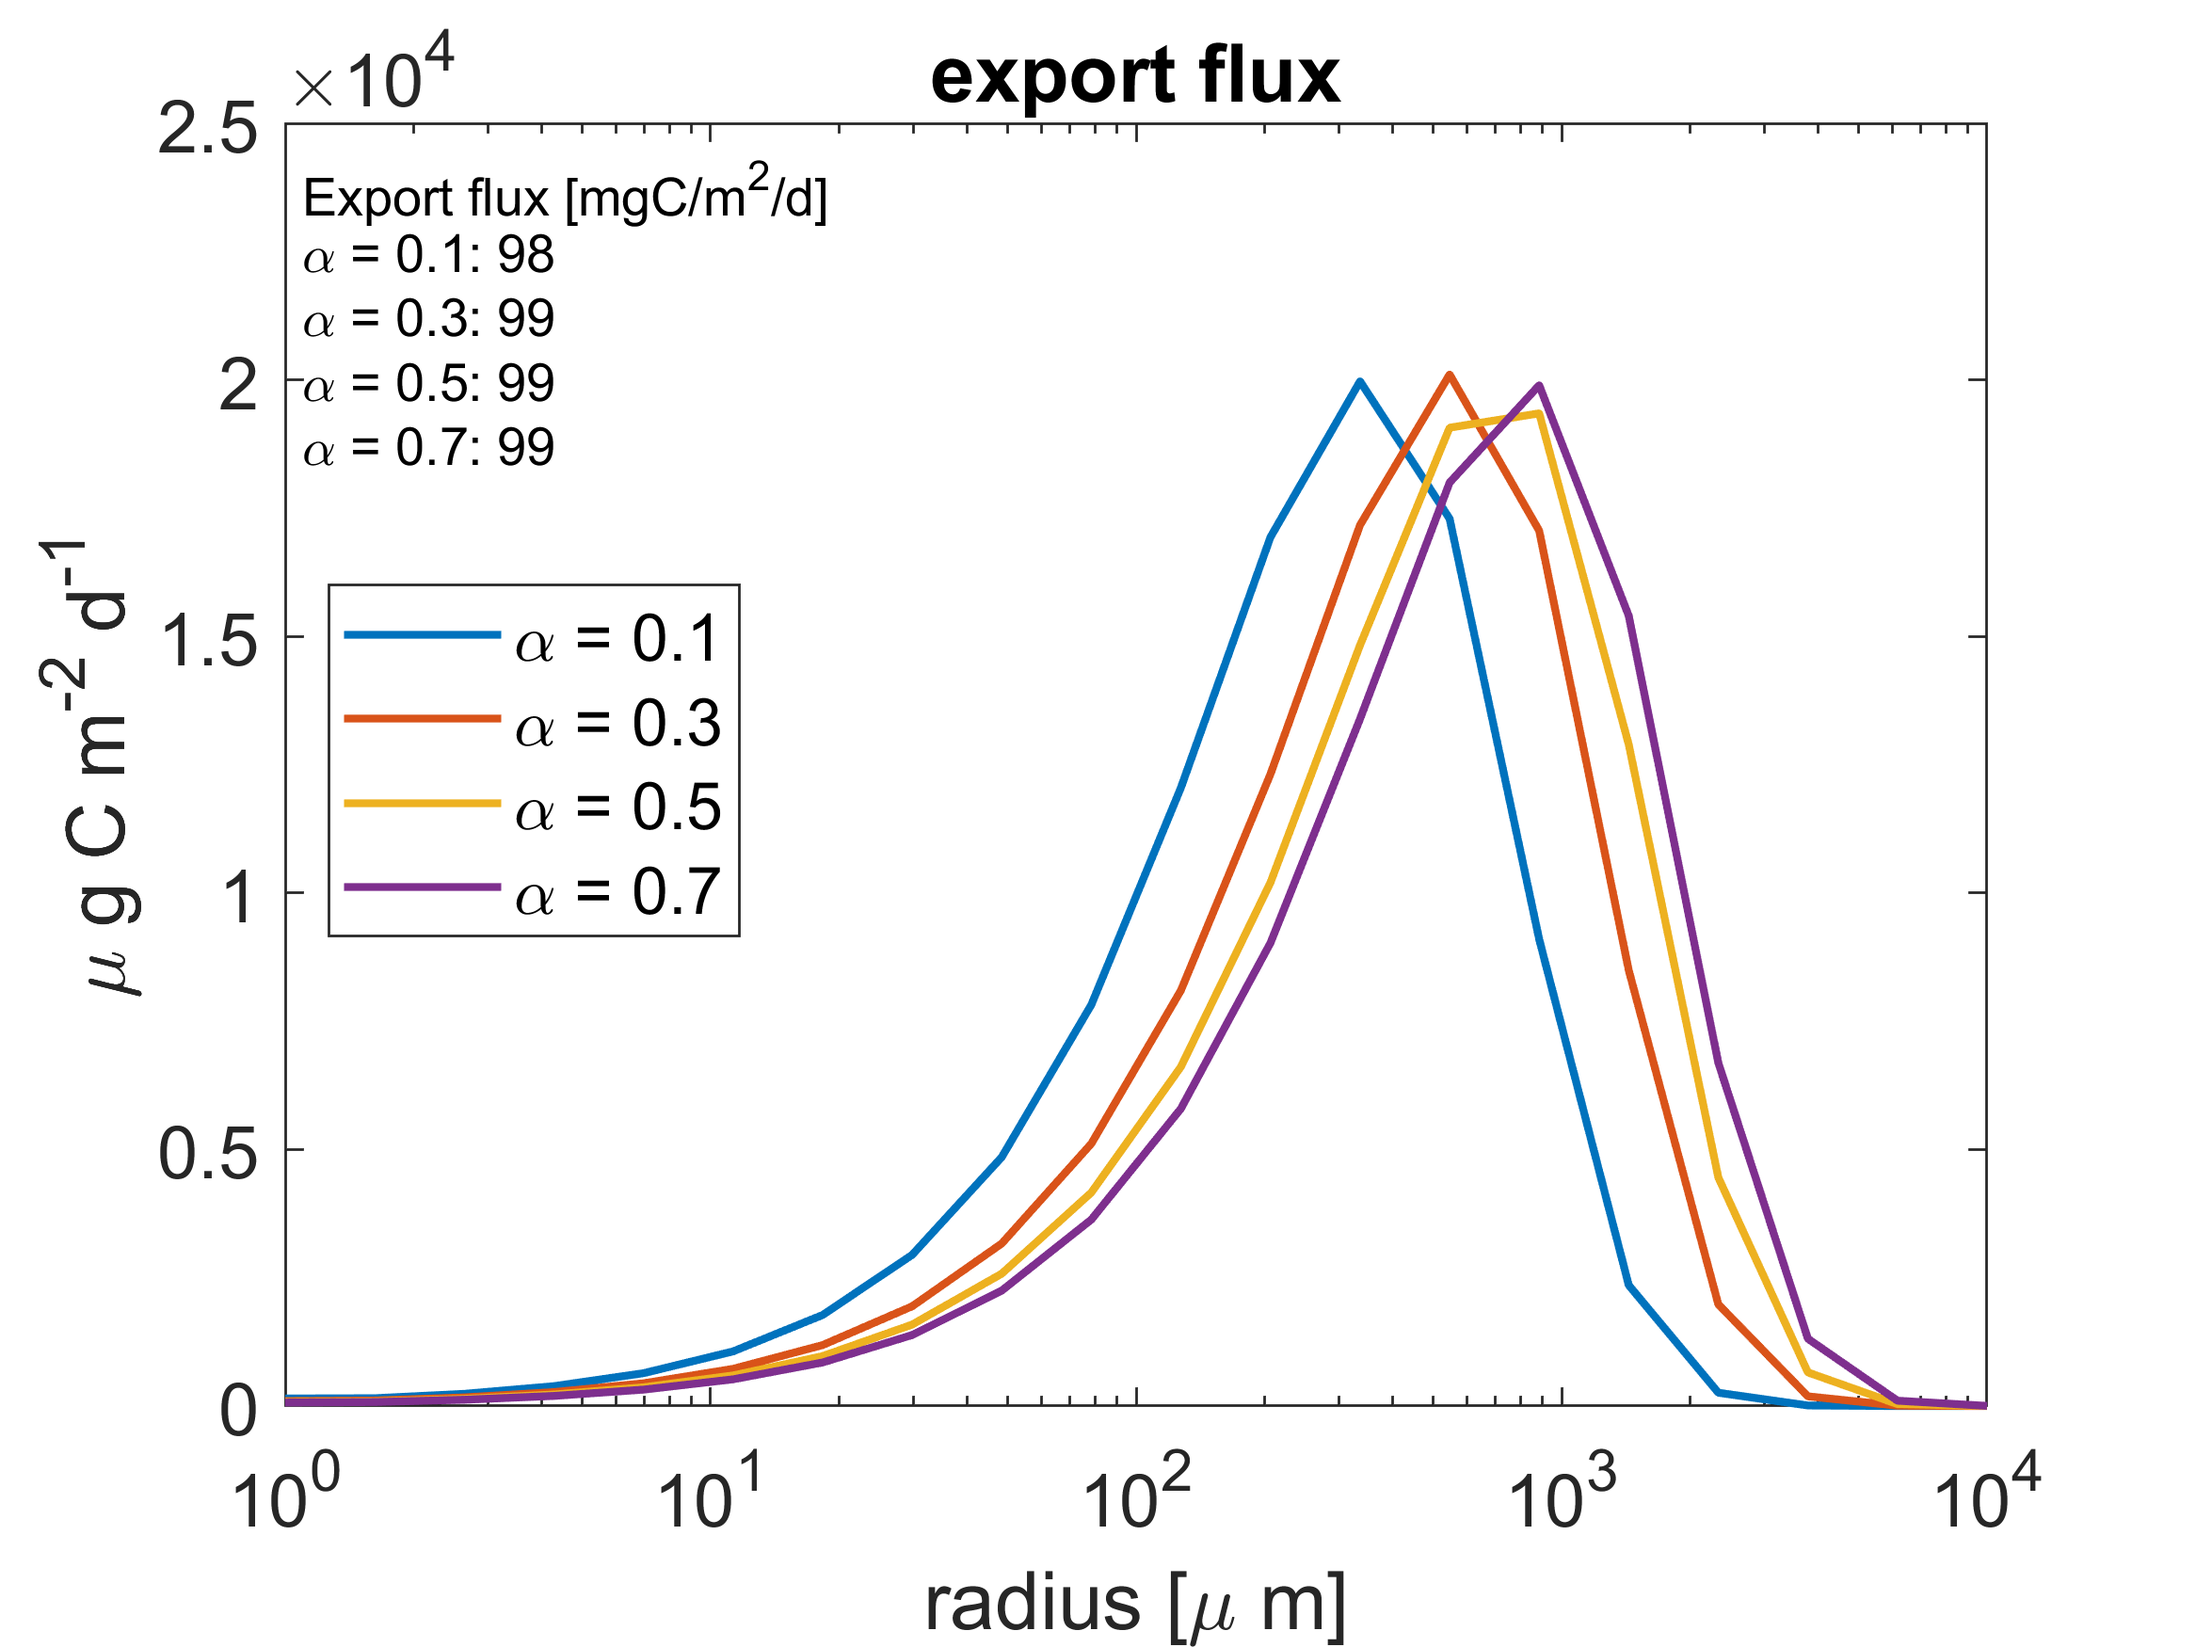
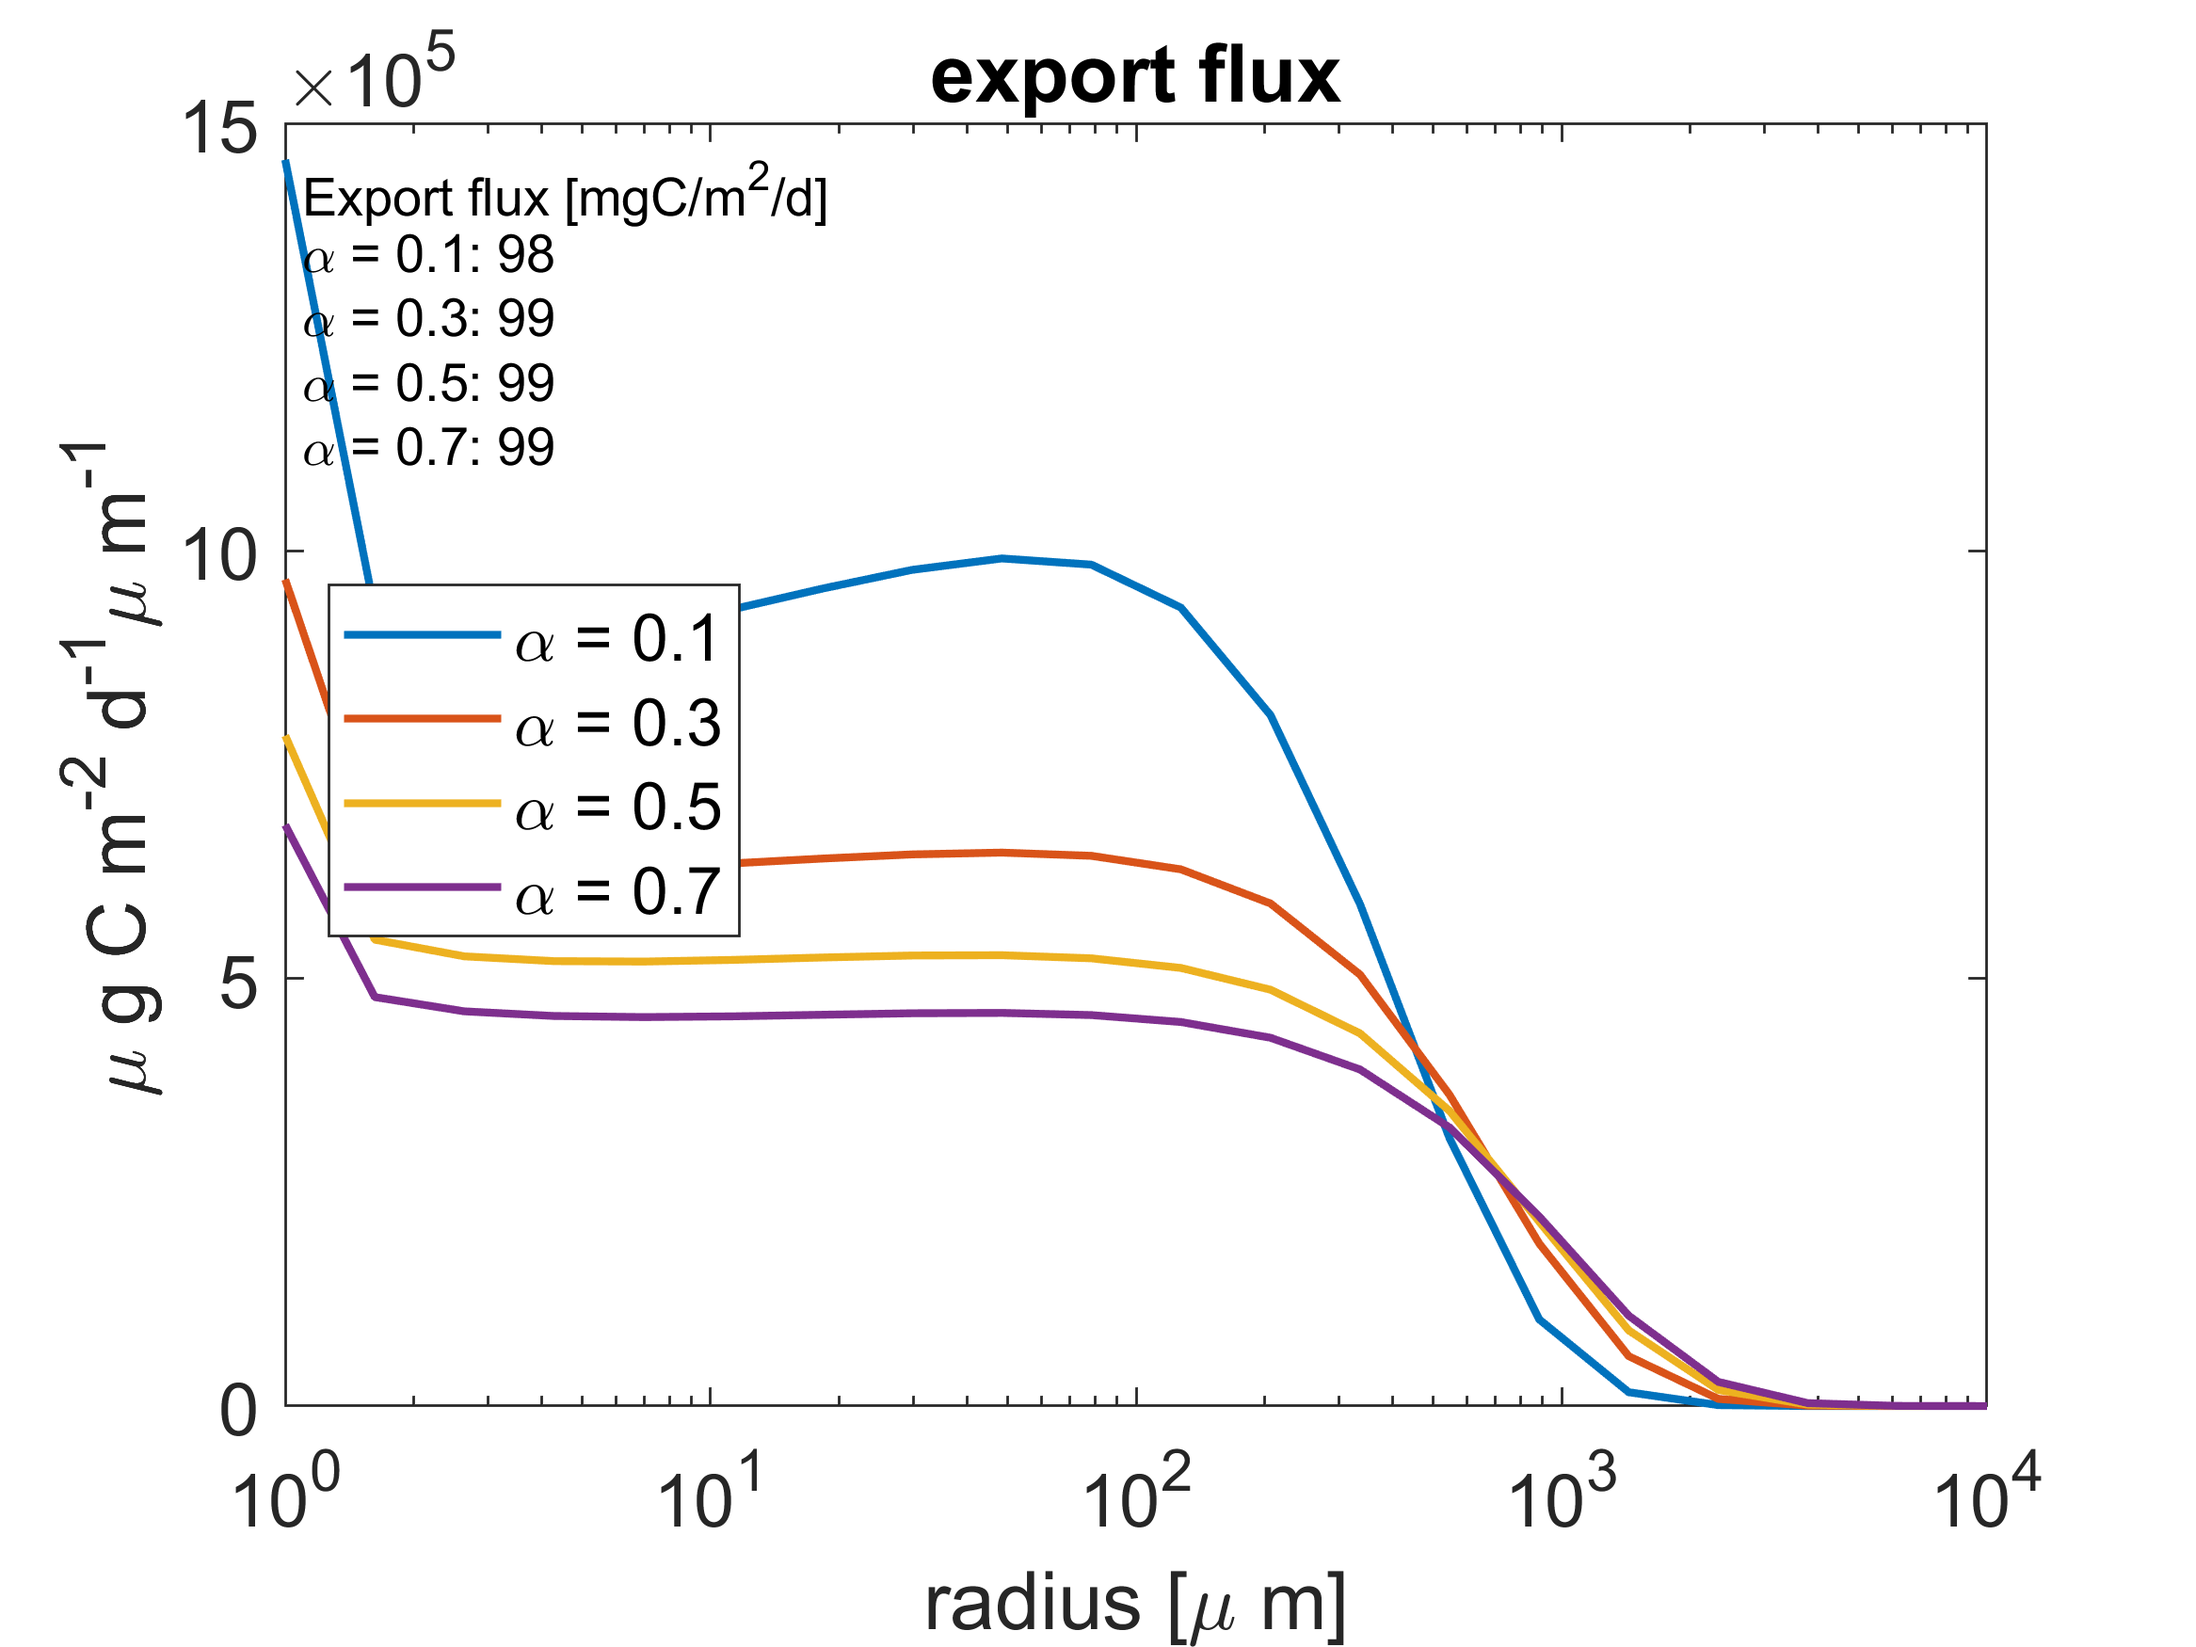
Updated export flux in sensitivity analysis

diff --git a/sensitivityanalysis/sensitivityPlots.m b/sensitivityanalysis/sensitivityPlots.m
@@ -16,6 +16,8 @@ load('alpha_05.mat')
 alpha05 = SA;
 load('alpha_07.mat')
 alpha07 = SA;
+load('a_16.mat')
+a16 = SA;
 load('a_17.mat')
 a17 = SA;
 load('a_18.mat')
@@ -36,65 +38,75 @@ load('x5.mat');
 
 SAstring = [{'epsilon4'},{'epsilon5'},{'epsilon7'},{'base'},{'alpha03'},{'alpha05'},{'alpha07'},{'a18'},{'a19'},{'a20'},{'a22'},{'a23'}];
 %% Export flux
+nR = length(x4);
+load('DELTA5.mat')
+DELTA5 = DELTA;
+load('DELTA4.mat')
+DELTA4 = DELTA;
 
 
     
 exportDT = epsilon4.wWhites.*epsilon4.M/H;
-exportDT_x(1,:) = sum(exportDT,1);
+exportDT_x(1,:) = sum(exportDT,1)./DELTA;
 exportFlux(1) = sum(exportDT,'all','omitnan')*1E-3 ;%[mgC/m2/d]
 
 exportDT = epsilon5.wWhites.*epsilon5.M/H;
-exportDT_x(2,:) = sum(exportDT,1);
+exportDT_x(2,:) = sum(exportDT,1)./DELTA;
 exportFlux(2) = sum(exportDT,'all','omitnan')*1E-3; %[mgC/m2/d]
 
 exportDT = epsilon7.wWhites.*epsilon7.M/H;
-exportDT_x(3,:) = sum(exportDT,1);
+exportDT_x(3,:) = sum(exportDT,1)./DELTA;
 exportFlux(3) = sum(exportDT,'all','omitnan')*1E-3 ;%[mgC/m2/d]
 
 exportDT = base.wWhites.*base.M/H;
-exportDT_x(4,:) = sum(exportDT,1);
+exportDT_x(4,:) = sum(exportDT,1)./DELTA;
 exportFlux(4) = sum(exportDT,'all','omitnan')*1E-3 ;%[mgC/m2/d]
 
 exportDT = alpha03.wWhites.*alpha03.M/H;
-exportDT_x(5,:) = sum(exportDT,1);
+exportDT_x(5,:) = sum(exportDT,1)./DELTA;
 exportFlux(5) = sum(exportDT,'all','omitnan')*1E-3 ;%[mgC/m2/d]
 
 exportDT = alpha05.wWhites.*alpha05.M/H;
-exportDT_x(6,:) = sum(exportDT,1);
+exportDT_x(6,:) = sum(exportDT,1)./DELTA;
 exportFlux(6) = sum(exportDT,'all','omitnan')*1E-3 ;%[mgC/m2/d]
 
 
 exportDT = alpha07.wWhites.*alpha07.M/H;
-exportDT_x(7,:) = sum(exportDT,1);
+exportDT_x(7,:) = sum(exportDT,1)./DELTA;
 exportFlux(7) = sum(exportDT,'all','omitnan')*1E-3 ;%[mgC/m2/d]
 
-exportDT = a17.wWhites.*a17.M/H;
-exportDT_x(8,:) = sum(exportDT,1);
+exportDT = a16.wWhites.*a16.M/H;
+exportDT_x(8,:) = sum(exportDT,1)./DELTA5;
 exportFlux(8) = sum(exportDT,'all','omitnan')*1E-3 ;%[mgC/m2/d]
 
-exportDT = a18.wWhites.*a18.M/H;
-exportDT_x(9,:) = sum(exportDT,1);
+
+exportDT = a17.wWhites.*a17.M/H;
+exportDT_x(9,:) = sum(exportDT,1)./DELTA5;
 exportFlux(9) = sum(exportDT,'all','omitnan')*1E-3 ;%[mgC/m2/d]
 
-exportDT = a19.wWhites.*a19.M/H;
-exportDT_x(10,:) = sum(exportDT,1);
+exportDT = a18.wWhites.*a18.M/H;
+exportDT_x(10,:) = sum(exportDT,1)./DELTA5;
 exportFlux(10) = sum(exportDT,'all','omitnan')*1E-3 ;%[mgC/m2/d]
 
-exportDT = a20.wWhites.*a20.M/H;
-exportDT_x(11,:) = sum(exportDT,1);
+exportDT = a19.wWhites.*a19.M/H;
+exportDT_x(11,:) = sum(exportDT,1)./DELTA;
 exportFlux(11) = sum(exportDT,'all','omitnan')*1E-3 ;%[mgC/m2/d]
 
-exportDT = a21.wWhites.*a21.M/H;
-exportDT_x(12,:) = sum(exportDT,1);
+exportDT = a20.wWhites.*a20.M/H;
+exportDT_x(12,:) = sum(exportDT,1)./DELTA;
 exportFlux(12) = sum(exportDT,'all','omitnan')*1E-3 ;%[mgC/m2/d]
 
-exportDT = a22.wWhites.*a22.M/H;
-exportDT_x(13,:) = sum(exportDT,1);
+exportDT = a21.wWhites.*a21.M/H;
+exportDT_x(13,:) = sum(exportDT,1)./DELTA;
 exportFlux(13) = sum(exportDT,'all','omitnan')*1E-3 ;%[mgC/m2/d]
 
+exportDT = a22.wWhites.*a22.M/H;
+exportDT_x(14,:) = sum(exportDT,1)./DELTA;
+exportFlux(14) = sum(exportDT,'all','omitnan')*1E-3 ;%[mgC/m2/d]
+
 exportDT = a23.wWhites.*a23.M/H;
-exportDT_x(14,:) = sum(exportDT,1);
-exportFlux(14) = sum(exportDT,'all','omitnan')*1E-3; %[mgC/m2/d]
+exportDT_x(15,:) = sum(exportDT,1)./DELTA;
+exportFlux(15) = sum(exportDT,'all','omitnan')*1E-3; %[mgC/m2/d]
 %% Epsilon 
 figure
 semilogx(x4,exportDT_x(1:2,:),'LineWidth',1.5)
@@ -108,7 +120,7 @@ text(0.01, 0.85, ['\epsilon = 10^{-5}: ', num2str(round(exportFlux(2)))],'Units'
 text(0.01, 0.8, ['\epsilon = 10^{-6}: ', num2str(round(exportFlux(4)))],'Units','normalized')
 text(0.01, 0.75, ['\epsilon = 10^{-7}: ', num2str(round(exportFlux(3)))],'Units','normalized')
 xlabel('radius [\mu m]')
-ylabel('\mu g C m^{-2} d^{-1}') 
+ylabel('\mu g C m^{-2} d^{-1} \mu m^{-1}') 
 legend('\epsilon=10^{-4}','\epsilon=10^{-5}','\epsilon=10^{-6}','\epsilon=10^{-7}','location','w')
 set(gca,'FontSize',14)
 
@@ -125,7 +137,7 @@ text(0.01, 0.85, ['\alpha = 0.3: ', num2str(round(exportFlux(5)))],'Units','norm
 text(0.01, 0.8, ['\alpha = 0.5: ', num2str(round(exportFlux(6)))],'Units','normalized')
 text(0.01, 0.75, ['\alpha = 0.7: ', num2str(round(exportFlux(7)))],'Units','normalized')
 xlabel('radius [\mu m]')
-ylabel('\mu g C m^{-2} d^{-1}') 
+ylabel('\mu g C m^{-2} d^{-1}\mu m^{-1}') 
 legend('\alpha = 0.1','\alpha = 0.3','\alpha = 0.5','\alpha = 0.7','location','w')
 set(gca,'FontSize',14)
 
@@ -134,11 +146,12 @@ print('./plots/flux_alpha.png', '-dpng', '-r400')
 %% a
 
 figure('Position', [300, 300, 700, 425])
-semilogx(x5,exportDT_x(8:9,:),'LineWidth',1.5)
+semilogx(x5,exportDT_x(8:10,:),'LineWidth',1.5)
 hold on
-semilogx(x4,exportDT_x(10:14,:),'LineWidth',1.5)
+semilogx(x4,exportDT_x(11:15,:),'LineWidth',1.5)
 title('export flux')
 text(0.01, 0.95, 'Export flux [mgC/m^2/d]' ,'Units','normalized')
+text(0.01, 0.9,['a = 1.6: ', num2str(round(exportFlux(8)))],'Units','normalized')
 text(0.01, 0.9,['a = 1.7: ', num2str(round(exportFlux(8)))],'Units','normalized')
 text(0.01, 0.85,['a = 1.8: ', num2str(round(exportFlux(9)))],'Units','normalized')
 text(0.01, 0.8, ['a = 1.9: ', num2str(round(exportFlux(10)))],'Units','normalized')
@@ -147,19 +160,19 @@ text(0.01, 0.7, ['a = 2.1: ', num2str(round(exportFlux(12)))],'Units','normalize
 text(0.01, 0.65, ['a = 2.2: ', num2str(round(exportFlux(13)))],'Units','normalized')
 text(0.01, 0.6, ['a = 2.3: ', num2str(round(exportFlux(14)))],'Units','normalized')
 xlabel('radius [\mu m]')
-ylabel('\mu g C m^{-2} d^{-1}') 
-legend('a = 1.7','a = 1.8','a = 1.9','a = 2.0','a = 2.1','a = 2.2','a = 2.3','location','sw')
+ylabel('\mu g C m^{-2} d^{-1}\mu m^{-1}') 
+legend('a = 1.6','a = 1.7','a = 1.8','a = 1.9','a = 2.0','a = 2.1','a = 2.2','a = 2.3','location','sw')
 set(gca,'FontSize',14)
 
 print('./plots/flux_a.png', '-dpng', '-r400')
 
 %%
 load('m.mat')
-nR = 20;
+DELTA = DELTA*1E-4; %convert to cm
+
 N = epsilon4.M./m;
 Nc = sum(N,1)*1E-6; % sum and change to #/cm^3
-DELTA(1) = 1E-4*x4(1);
-DELTA(2:nR) = 1E-4*(x4(2:end)-x4(1:end-1));
+
 NNN(1,:) = Nc./DELTA;
 %%%%%
 N = epsilon5.M./m;
@@ -204,47 +217,53 @@ DELTA(1) = 1E-4*x4(1);
 DELTA(2:nR) = 1E-4*(x4(2:end)-x4(1:end-1));
 NNN(8,:) = Nc./DELTA;
 
-N = a17.M./m;
+N = a16.M./m;
 Nc = sum(N,1)*1E-6; % sum and change to #/cm^3
 DELTA(1) = 1E-4*x4(1);
 DELTA(2:nR) = 1E-4*(x5(2:end)-x5(1:end-1));
 NNN(9,:) = Nc./DELTA;
 
-N = a18.M./m;
+N = a17.M./m;
 Nc = sum(N,1)*1E-6; % sum and change to #/cm^3
 DELTA(1) = 1E-4*x4(1);
 DELTA(2:nR) = 1E-4*(x5(2:end)-x5(1:end-1));
 NNN(10,:) = Nc./DELTA;
 
-N = a19.M./m;
+N = a18.M./m;
 Nc = sum(N,1)*1E-6; % sum and change to #/cm^3
 DELTA(1) = 1E-4*x4(1);
-DELTA(2:nR) = 1E-4*(x4(2:end)-x4(1:end-1));
+DELTA(2:nR) = 1E-4*(x5(2:end)-x5(1:end-1));
 NNN(11,:) = Nc./DELTA;
 
-N = a20.M./m;
+N = a19.M./m;
 Nc = sum(N,1)*1E-6; % sum and change to #/cm^3
 DELTA(1) = 1E-4*x4(1);
 DELTA(2:nR) = 1E-4*(x4(2:end)-x4(1:end-1));
 NNN(12,:) = Nc./DELTA;
 
-N = a21.M./m;
+N = a20.M./m;
 Nc = sum(N,1)*1E-6; % sum and change to #/cm^3
 DELTA(1) = 1E-4*x4(1);
 DELTA(2:nR) = 1E-4*(x4(2:end)-x4(1:end-1));
 NNN(13,:) = Nc./DELTA;
 
-N = a22.M./m;
+N = a21.M./m;
 Nc = sum(N,1)*1E-6; % sum and change to #/cm^3
 DELTA(1) = 1E-4*x4(1);
 DELTA(2:nR) = 1E-4*(x4(2:end)-x4(1:end-1));
 NNN(14,:) = Nc./DELTA;
 
-N = a23.M./m;
+N = a22.M./m;
 Nc = sum(N,1)*1E-6; % sum and change to #/cm^3
 DELTA(1) = 1E-4*x4(1);
 DELTA(2:nR) = 1E-4*(x4(2:end)-x4(1:end-1));
 NNN(15,:) = Nc./DELTA;
+
+N = a23.M./m;
+Nc = sum(N,1)*1E-6; % sum and change to #/cm^3
+DELTA(1) = 1E-4*x4(1);
+DELTA(2:nR) = 1E-4*(x4(2:end)-x4(1:end-1));
+NNN(16,:) = Nc./DELTA;
 
 
 
@@ -257,12 +276,12 @@ monterey = @(x) 0.027*x.^(-2.965);
 figure('Position', [300, 300, 700, 425])
 loglog(2*x4*1E-4,NNN(1:4,:), 'LineWidth',1.5)
 hold on
-plot(2*x4*1E-4,monterey(2*x4*1E-4))
+plot(2*x4*1E-4,slope(2*x4*1E-4,2))
 plot(2*x4*1E-4,slope(2*x4*1E-4,4),':')
 title('Particle size spectrum')
 xlabel('Particle Diameter [cm]')
 ylabel('Number spectrum [# cm^{-4}]')
-legend('\epsilon=10^{-4}','\epsilon=10^{-5}','\epsilon=10^{-6}','\epsilon=10^{-7}','monterey bay','slope=-4','Location','SouthWest')
+legend('\epsilon=10^{-4}','\epsilon=10^{-5}','\epsilon=10^{-6}','\epsilon=10^{-7}','slope=-2','slope=-4','Location','SouthWest')
 set(gca,'FontSize',16)
 
 print('./plots/spectrum_epsilon.png', '-dpng', '-r400')
@@ -270,27 +289,27 @@ print('./plots/spectrum_epsilon.png', '-dpng', '-r400')
 figure('Position', [300, 300, 700, 425])
 loglog(2*x4*1E-4,NNN(5:8,:), 'LineWidth',1.5)
 hold on
-plot(2*x4*1E-4,monterey(2*x4*1E-4))
+plot(2*x4*1E-4,slope(2*x4*1E-4,2))
 plot(2*x4*1E-4,slope(2*x4*1E-4,4),':')
 title('Particle size spectrum')
 xlabel('Particle Diameter [cm]')
 ylabel('Number spectrum [# cm^{-4}]')
-legend('\alpha = 0.1','\alpha = 0.3','\alpha = 0.5','\alpha = 0.7','monterey bay','slope=-4','Location','SouthWest')
+legend('\alpha = 0.1','\alpha = 0.3','\alpha = 0.5','\alpha = 0.7','slope=-2','slope=-4','Location','SouthWest')
 set(gca,'FontSize',16)
 
 print('./plots/spectrum_alpha.png', '-dpng', '-r400')
 
 figure('Position', [300, 300, 700, 425])
-loglog(2*x5*1E-4,NNN(9:10,:), 'LineWidth',1.5)
+loglog(2*x5*1E-4,NNN(9:11,:), 'LineWidth',1.5)
 hold on
-loglog(2*x4*1E-4,NNN(11:15,:), 'LineWidth',1.5)
-plot(2*x4*1E-4,monterey(2*x4*1E-4))
+loglog(2*x4*1E-4,NNN(12:16,:), 'LineWidth',1.5)
+plot(2*x4*1E-4,slope(2*x4*1E-4,2))
 plot(2*x4*1E-4,slope(2*x4*1E-4,4),':')
 
 title('Particle size spectrum')
 xlabel('Particle Diameter [cm]')
 ylabel('Number spectrum [# cm^{-4}]')
-legend('a = 1.7','a = 1.8','a = 1.9','a = 2.0','a = 2.1','a = 2.2','a = 2.3','monterey bay','slope=-4','Location','SouthWest')
+legend('a = 1.6','a = 1.7','a = 1.8','a = 1.9','a = 2.0','a = 2.1','a = 2.2','a = 2.3','slope=-2','slope=-4','Location','SouthWest')
 set(gca,'FontSize',16)
 
 print('./plots/spectrum_a.png', '-dpng', '-r400')

diff --git a/coagulation.m b/coagulation.m
@@ -3,9 +3,9 @@ clear all
 close all
 % first part to be used in parameters.m
 %% constants
-rMax = 1E5; %[\mu m] max radius
+rMax = 1E4; %[\mu m] max radius
 rMin = 1 ; %[\mu m] min radius
-a = 1.6; %fractal dimension
+a = 1.9; %fractal dimension
 rho_sw = 1.027E-6; % density of seawater [\mug \mu m^-3] (from andy)
 nu = 1E-6; % [m^2 s^-1] kinematic viscosity of seawater (from andy)
 mu = nu*rho_sw*10^9;% [kg m^-1 s^-1  ] absolute viscosity (10^9 is a conversion factor for rho to kg/m^3) 
@@ -190,7 +190,7 @@ N = M./m;
 %% Transient solution 
 tic
 options = odeset('NonNegative',1:length(M(:)));
-[t,dM] = ode23(@interactionsDT, [0:10000], [M(:) ],options,m,xz,bi,bj,nR,nD,q,a,b300,b301,b310,b311,f00,f01,f10,f11,alpha,beta,wWhites,L,H,prod,remin,pfrag,frag_div);
+[t,dM] = ode23(@interactionsDT, [0:100000], [M(:) ],options,m,xz,bi,bj,nR,nD,q,a,b300,b301,b310,b311,f00,f01,f10,f11,alpha,beta,wWhites,L,H,prod,remin,pfrag,frag_div);
 runtime = toc        
 M = reshape(dM(end,:),nD,nR);
 
@@ -245,8 +245,9 @@ ylabel('\mu g C m^{-2} d^{-1}')
 %% for annual retreat
 
 Nc = sum(N,1)*1E-6; % sum and change to #/cm^3
-DELTA(1) = 1E-4*r(1);
-DELTA(2:nR) = 1E-4*(r(2:nR)-r(1:nR-1));
+
+DELTA(1:nR-1) = 1E-4*(r(2:nR)-r(1:nR-1));
+DELTA(nR) = 1E-4*r(nR+1)-r(nR);
 NNN = Nc./DELTA;
 
 
